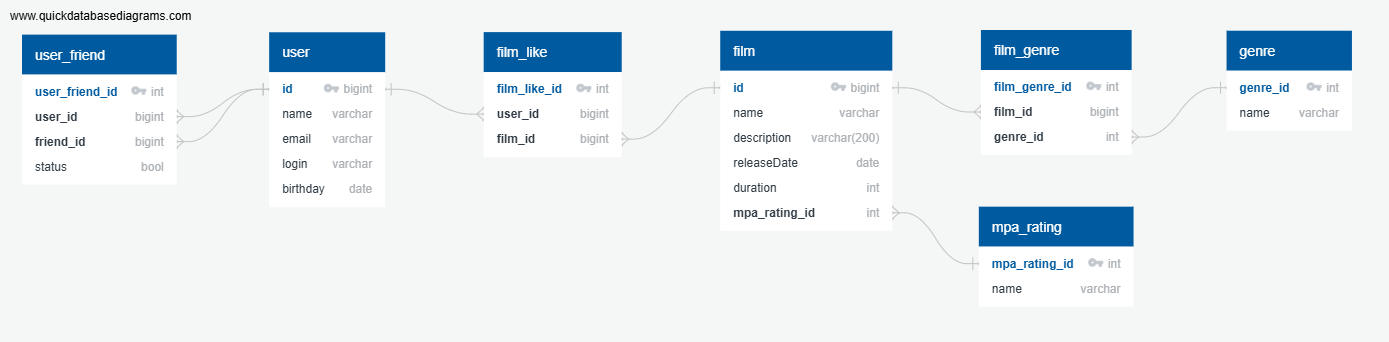
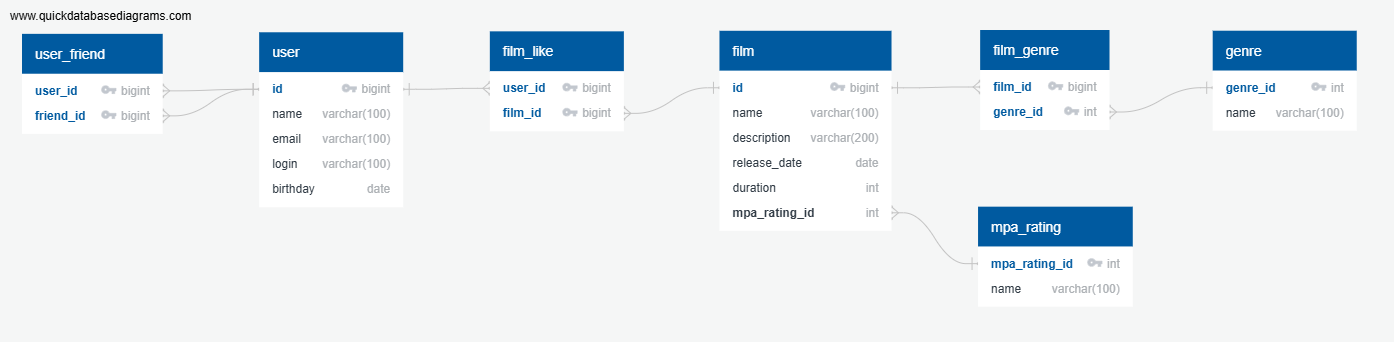
The intermediate sprint 12 commit 2 main branch 10.04.25 * fix some issues in DB concept

diff --git a/README.md b/README.md
@@ -2,7 +2,7 @@
 Template repository for Filmorate project.
 
 
-## Database ER diagram (ver.1 sprint 12)
+## Database ER diagram (ver.2 sprint 12)
 ![ER_diag_filmorate.png](ER_diag_filmorate.png)
 
 
@@ -14,34 +14,55 @@ Template repository for Filmorate project.
 
 
 
-## Запросы на получение данных
+## Описание таблиц
 
-- getAllFilms:
-  ``SELECT * FROM film;``
 
-- getAllUsers:
-  ``SELECT * FROM user;``
-
-- getTopFilms:
-```sql
-SELECT f.id, f.name, f.description, f.releaseDate, f.duration, COUNT(fl.user_id) AS count
-FROM film f
-LEFT OUTER JOIN film_like AS fl ON f.id = fl.film_id
-GROUP BY f.id
-ORDER BY count DESC
-LIMIT 10;
 ```
-- getAllFriendsById:
-```sql
-SELECT *
-FROM user AS u
------
+user
+--
+id bigint PK
+name varchar(100)
+email varchar(100)
+login varchar(100)
+birthday date
+
+
+user_friend
+--
+user_id bigint PK FK >- user.id
+friend_id bigint PK FK >- user.id
+
+
+film_like
+--
+user_id bigint PK FK >- user.id
+film_id bigint PK FK >- film.id
+
+
+film
+--
+id bigint PK
+name varchar(100)
+description varchar(200)
+release_date date
+duration int
+mpa_rating_id int FK >- mpa_rating.mpa_rating_id
+
+
+film_genre
+--
+film_id bigint PK FK >- film.id
+genre_id int PK FK >- genre.genre_id
+
+
+genre
+--
+genre_id int PK
+name varchar(100)
+
+
+mpa_rating
+--
+mpa_rating_id int PK
+name varchar(100)
 ```
-- getAllCommonFriendsByIds:
-```sql
-SELECT u_f1.friend_id
-FROM user_friend AS u_f1
-LEFT OUTER JOIN user_friend AS u_f2 ON u_f1.friend_id = u_f2.friend_id
-WHERE u_f1.user_id = ID1 AND u_f2.user_id = ID2
-AND u_f1.status = true
-AND u_f2.status = true;
